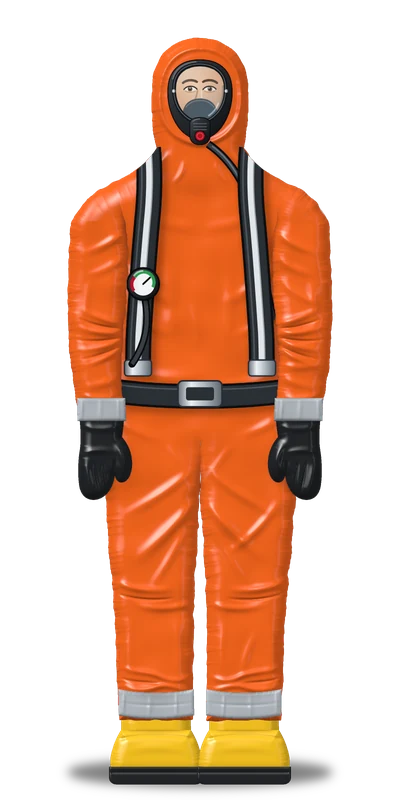
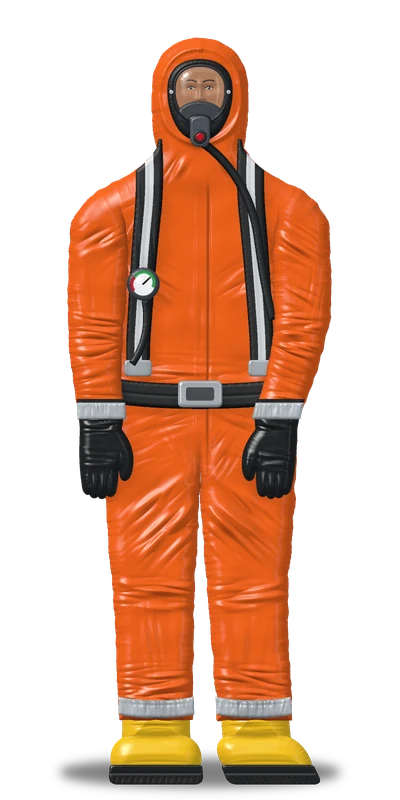
Trajes A–D mais realistas: rugas direcionais, costuras seladas, zíper, luvas com dedos, botas novas, rostos em relevo, pose assimétrica
Claude-Session: https://claude.ai/code/session_01UdsL3bCh6iyzEWJU9jDkJQ

Changed region(s): [[0.18, 0.0625, 0.87, 1.0], [0.3, 0.5938, 0.48, 0.7812], [0.15, 0.9375, 0.21, 1.0]]

diff --git a/index.html b/index.html
@@ -1821,7 +1821,7 @@ function foot(){var names={e:{pt:'EPI e EPR',en:'PPE and RPE',es:'EPP y EPR'}[st
 /*EPI-JS*/
 /* ---------- EPI / EPR (fluxogramas da ABNT NBR 14064:2015) ---------- */
 /* ---- figuras: renderizações 2,5D (suitart/render.py, products.py) em fig/epi/ ---- */
-function epImg(n,w,h,alt){return '<img class="epfig" src="fig/epi/'+n+'.webp" width="'+w+'" height="'+h+'" alt="'+esc(alt)+'" decoding="async">';}
+function epImg(n,w,h,alt){return '<img class="epfig" src="fig/epi/'+n+'.webp?v=3" width="'+w+'" height="'+h+'" alt="'+esc(alt)+'" decoding="async">';}
 function epFig(k){return epImg(k,200,400,EPX().lv[k][0]);}
 function epGear(k){return epImg(k,200,240,EPX().lv[k][0]);}
 function epTypeFig(k){var n={scba:'S',full:'P'}[k]||k;return epImg(n,200,240,EPTX().it[k][0]);}
